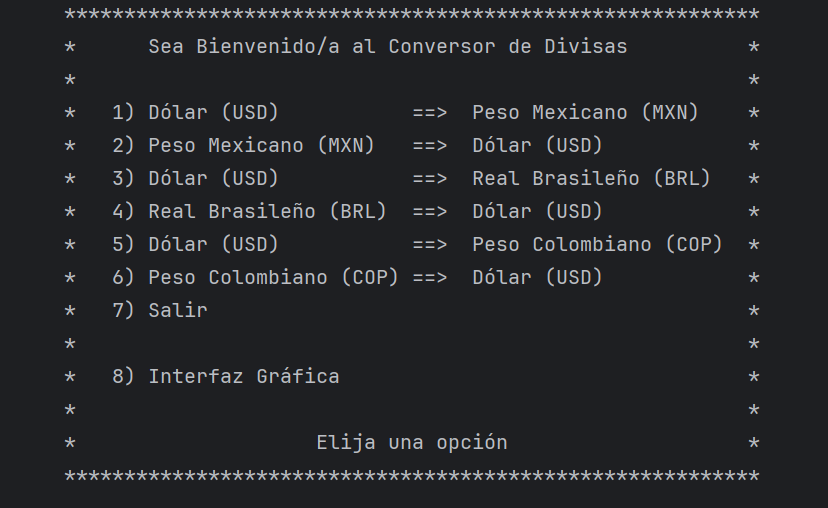
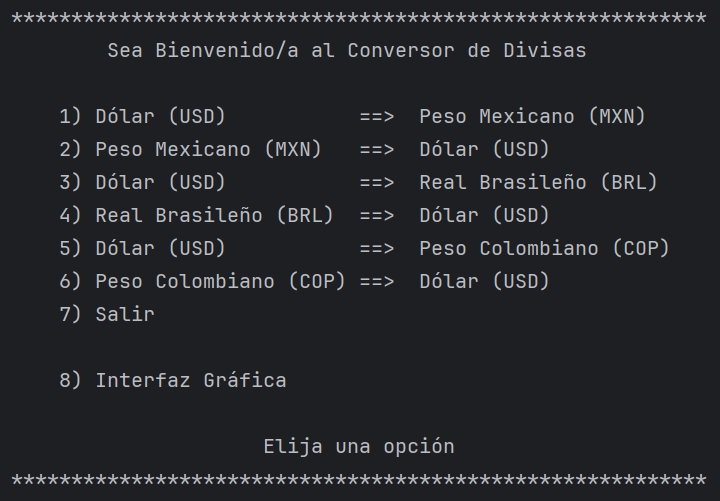
Update Main, Image and Json Divisas

diff --git a/src/main/java/org/camberos/Main.java b/src/main/java/org/camberos/Main.java
@@ -17,41 +17,21 @@ public class Main {
         Thread ventanaThread = new Thread(Main::initInterface);
         ventanaThread.start();
 
-        // Se crea un objeto Scanner para la entrada del usuario
         Scanner scanner = new Scanner(System.in);
-        boolean shouldExit = false;
+        boolean shouldExit;
 
         // Bucle principal del programa
         do {
-            // Se muestra el menú principal
-            printMainMenu();
-            // Se obtiene la opción del usuario
-            String option = getUserInput(scanner);
-            // Se procesa la opción elegida por el usuario
+            System.out.println(MAIN_MENU);
+            String option = scanner.nextLine();
             shouldExit = processOption(option, scanner, ventanaThread);
         } while (!shouldExit);
 
-        // Se cierra el scanner
         scanner.close();
+
     }
 
     // Métodos auxiliares
-    /**
-     * Imprime el menú principal del programa.
-     */
-    private static void printMainMenu() {
-        System.out.println(MAIN_MENU);
-    }
-
-    /**
-     * Obtiene la entrada del usuario.
-     * @param scanner El objeto Scanner utilizado para leer la entrada del usuario.
-     * @return La entrada del usuario como una cadena de texto.
-     */
-    private static String getUserInput(Scanner scanner) {
-        return scanner.nextLine();
-    }
-
     /**
      * Procesa la opción elegida por el usuario.
      * @param option La opción elegida por el usuario.
@@ -61,24 +41,21 @@ public class Main {
      */
     private static boolean processOption(String option, Scanner scanner, Thread ventanaThread) {
         switch (option) {
-            // Casos para las opciones de conversión de divisas
-            case "1", "2", "3", "4", "5", "6" -> {
+            case "1", "2", "3", "4", "5", "6" -> {  // Casos para las opciones de conversión de divisas
                 System.out.println(convertCurrency(option, scanner));
                 return askForAnotherOperation(scanner, ventanaThread);
             }
-            // Caso para salir del programa
-            case "7" -> {
-                System.out.println("            *********** ¡Hasta luego! *************");
+
+            case "7" -> {  // Caso para salir del programa
+                System.out.println(farewellPhrase);
                 closeInterface(ventanaThread);
                 return true;
             }
-            // Caso para mostrar la interfaz de usuario
-            case "8" -> {
+            case "8" -> { //Caso para mostrar la interfaz grafica
                 showUserInterface(ventanaThread);
-                return false;
+                return true;
             }
-            // Caso para opciones inválidas
-            default -> {
+            default -> {  // Caso para opciones inválidas
                 System.out.println(invalidOptionMessage);
                 return false;
             }
@@ -88,24 +65,24 @@ public class Main {
     /**
      * Pide al usuario que elija si desea realizar otra operación.
      * @param scanner El objeto Scanner utilizado para leer la entrada del usuario.
-     * @param ventanaThread El hilo de la interfaz de usuario.
      * @return true si el usuario desea salir, false si desea realizar otra operación.
      */
     private static boolean askForAnotherOperation(Scanner scanner, Thread ventanaThread) {
         System.out.println(askForAnotherOperationMessage);
-        String response = getUserInput(scanner);
+        String response = scanner.nextLine();
 
         while (!response.equals("1") && !response.equals("2")) {
             System.out.println(invalidOptionMessage);
-            response = getUserInput(scanner);
+            response = scanner.nextLine();
         }
 
         if (response.equals("2")) {
             closeInterface(ventanaThread);
+            System.out.println(farewellPhrase);
             return true;
         }
-
         return false;
+
     }
 
     /**
@@ -115,19 +92,16 @@ public class Main {
      * @return El resultado de la conversión de divisas como una cadena de texto.
      */
     private static String convertCurrency(String option, Scanner scanner) {
+        String amount = getValidAmount(scanner);
         CurrencyOption currencyOption = CURRENCY_OPTIONS.get(option);
-        String fromCurrency = currencyOption.getFromCurrency();
-        String toCurrency = currencyOption.getToCurrency();
 
-        double amount = getValidAmount(scanner);
-
-        CurrencyConverter currencyConverter = new CurrencyConverter();
-        CurrencyDTO result = currencyConverter.convertCurrency(fromCurrency, toCurrency, Double.toString(amount));
+        CurrencyConverterAPI currency = new CurrencyConverterAPI();
+        CurrencyDTO result = currency.convertCurrency(currencyOption.fromCurrency(), currencyOption.toCurrency(), amount);
 
         return String.format("""
                            ******************************
                                       Resultado
-                                     %.2f (%s) 
+                                     %.2f (%s)
                            ******************************
            """, result.conversionResult(), result.targetCode());
     }
@@ -137,17 +111,16 @@ public class Main {
      * @param scanner El objeto Scanner utilizado para leer la entrada del usuario.
      * @return La cantidad válida de divisas.
      */
-    private static double getValidAmount(Scanner scanner) {
-        double amount = 0;
+    private static String getValidAmount(Scanner scanner) {
+        String amount;
         boolean isValid;
 
         do {
             System.out.println("      *******  Ingrese el valor que deseas convertir ****** ");
-            String input = getUserInput(scanner);
+            amount = scanner.nextLine();
 
             try {
-                amount = Double.parseDouble(input);
-                isValid = amount >= 0;
+                isValid = Double.parseDouble(amount) >= 0;
             } catch (NumberFormatException e) {
                 isValid = false;
             }
@@ -174,7 +147,7 @@ public class Main {
      */
     private static void showUserInterface(Thread ventanaThread) {
         System.out.println(loadingMessage);
-        closeInterface(ventanaThread);
+        verifyInterfaceInMemory(ventanaThread);
         interfazUsuario.setVisible(true);
         interfazUsuario.setLocationRelativeTo(null);
     }
@@ -202,9 +175,10 @@ public class Main {
 
     // Variables y mensajes
     private static final String invalidOptionMessage = "     ******** Opción no válida, vuelva a intentarlo ********";
+    private static final String farewellPhrase = "            *********** ¡Hasta luego! *************";
     private static final String loadingMessage = """
              ************************************************
-                  Cargando Interfaz, por favor espere...   
+                  Cargando Interfaz, por favor espere...
              ************************************************
     """;
     private static final String askForAnotherOperationMessage = """
@@ -215,19 +189,19 @@ public class Main {
     """;
     private static final String MAIN_MENU = """
         **********************************************************
-                Sea Bienvenido/a al Conversor de Divisas          
+                Sea Bienvenido/a al Conversor de Divisas
                                                                      
-            1) Dólar (USD)           ==>  Peso Mexicano (MXN)    
-            2) Peso Mexicano (MXN)   ==>  Dólar (USD)            
-            3) Dólar (USD)           ==>  Real Brasileño (BRL)   
-            4) Real Brasileño (BRL)  ==>  Dólar (USD)            
-            5) Dólar (USD)           ==>  Peso Colombiano (COP)  
-            6) Peso Colombiano (COP) ==>  Dólar (USD)            
-            7) Salir                                             
+            1) Dólar (USD)           ==>  Peso Mexicano (MXN)
+            2) Peso Mexicano (MXN)   ==>  Dólar (USD)
+            3) Dólar (USD)           ==>  Real Brasileño (BRL)
+            4) Real Brasileño (BRL)  ==>  Dólar (USD)
+            5) Dólar (USD)           ==>  Peso Colombiano (COP)
+            6) Peso Colombiano (COP) ==>  Dólar (USD)
+            7) Salir
                                                                  
-            8) Interfaz Gráfica                                  
+            8) Interfaz Gráfica
                                                                   
-                             Elija una opción                    
+                             Elija una opción
         **********************************************************
     """;
     private static final Map<String, CurrencyOption> CURRENCY_OPTIONS = Map.of(
@@ -246,30 +220,7 @@ public class Main {
 /**
  * Clase que representa una opción de conversión de divisas.
  */
-class CurrencyOption {
-    private final String fromCurrency;
-    private final String toCurrency;
-
-    public CurrencyOption(String fromCurrency, String toCurrency) {
-        this.fromCurrency = fromCurrency;
-        this.toCurrency = toCurrency;
-    }
-
-    public String getFromCurrency() {
-        return fromCurrency;
-    }
-
-    public String getToCurrency() {
-        return toCurrency;
-    }
+record CurrencyOption(String fromCurrency, String toCurrency) {
 }
 
-/**
- * Clase que realiza la conversión de divisas utilizando una API externa.
- */
-class CurrencyConverter {
-    public CurrencyDTO convertCurrency(String fromCurrency, String toCurrency, String amount) {
-        CurrencyConverterAPI currency = new CurrencyConverterAPI();
-        return currency.convertCurrency(fromCurrency, toCurrency, amount);
-    }
-}
+

diff --git a/src/main/java/org/camberos/view/InterfazUsuario.java b/src/main/java/org/camberos/view/InterfazUsuario.java
@@ -18,8 +18,8 @@ import java.util.Arrays;
 
 public class InterfazUsuario extends JFrame {
 
-    private static final int DEFAULT_DOLAR_INDEX = 52;
-    private static final int DEFAULT_PESO_MEXICANO_INDEX = 110;
+    private static final int DEFAULT_DOLAR_INDEX = 51;
+    private static final int DEFAULT_PESO_MEXICANO_INDEX = 109;
     private static final String JSON_PATH = "src/main/resources/divisas.json";
     private final Gson gson = new Gson();
 
